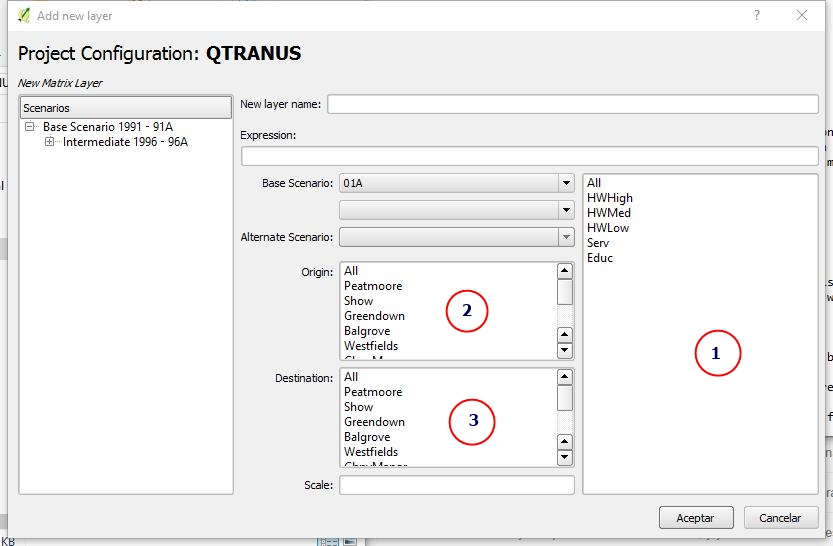
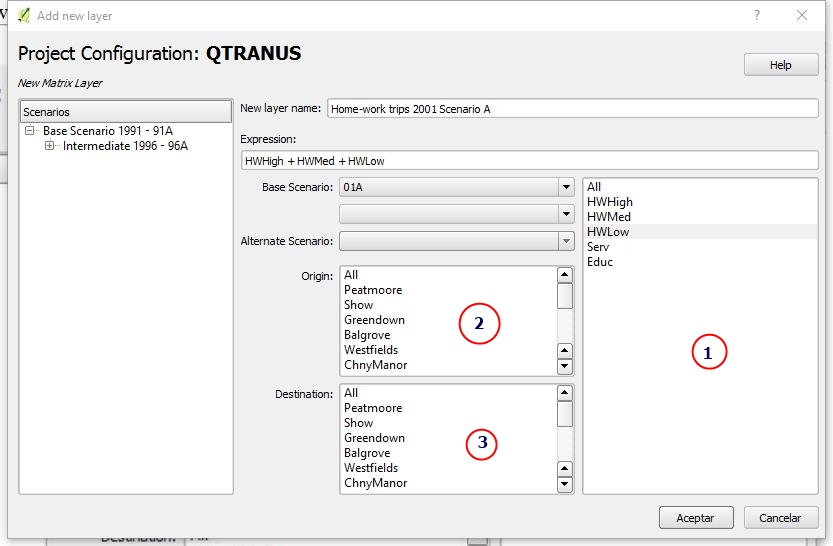
User help updated
* User help updated, images and information updated.

diff --git a/userHelp/results.html b/userHelp/results.html
@@ -20,23 +20,26 @@
             <article class="article">
                 <h1>Results</h1>
                 <p>This part of the program is used to produce maps with the results of a TRANUS model. In this manual we are using the model of Swindon as an example. This model and all related data may be downloaded from:</p>
-                <a href="http://www.tranus.com/tranus-english/download-install">TRANUS site</a>
-                <p>To begin the process, a window is presented with boxes to fill:</p>
+				<a href="http://www.tranus.com/tranus-english/download-install">TRANUS site</a>
+				<p>To begin the process, a window is presented with boxes to fill:</p>
                 <figure>
                     <img src="img/results1.jpg">
                     <figcaption>Fig. 1: QTranus main window.</figcaption>
                 </figure>
                 <h3>Layers group name</h3>
-                <p>Give a name to put all the layers that you will produce into a group - Obligatory field</p>
-                <h3>TRANUS workspace</h3>
+				<p>Give a name to put all the layers that you will produce into a group - Obligatory field</p>
+				<h3>TRANUS workspace</h3>
                 <p>A TRANUS project resides in a unique folder in your computer. As soon as you specify a valid TRANUS workspace, you will notice that the Scenario Tree appears with valid information in the left panel. This is because QTRANUS looks in the folder you specified for a file called TRANUS.CTL. This is the file where the scenario tree is specified, a fundamental structure in TRANUS modeling. You may click on the little + to expand the scenario tree.</p>
-                <h3>Zones shapefile</h3>
-                <p>Specify the shape file where the polygons of the zones are contained. You may use the button provided to explore your pc.  As soon as you put a valid shape file name, a map with the polygons should appear as a background. The shapefile must contain one polygon for each zone in the model. Make sure that this is so.</p>
-                <p>Next, Select zones shape Id with a pull-down list of all the fields in the zones shapefile that you specified. Select the one that contains the Zone Id numbers. This must be integer values exactly matching the Zone Id identifiers in the model.</p>
-                <p>If no Zone shapefile is specified, the program will not be able to produce maps based on zonal information.</p>
-                <p>The other two boxes, Network Shapefile and Centroid Shapefile correspond to parts of the program that are still under development.</p>
-                <p>At the bottom there are three buttons called ‘Zones’, ‘Network’ and ‘Matrix’. They are all inactive. As soon as a valid Zones Shapefile is specified, the Zones and the Matrix buttons become active. The Network option is not available in this version. Press the Zones button, and another window appears to generate QGIS layers with thematic zone-based results, as described below. Press the Matrix button and another window will appear to generate flow-maps from trip matrices.</p>
-                <p>Once one or more map or matrix layers have been defined, you may save the QGIS project in the usual way, doing File-Save or File-Save As and giving it a name. This means that the next time you open the QGIS project, all your maps will be there exactly as you left them. You may then add more layers to the project using the QTRANUS plugin again and again.</p>
+				<h3>Zones shapefile</h3>
+				<p>Specify the shape file where the polygons of the zones are contained. You may use the button provided to explore your pc.  As soon as you put a valid shape file name, a map with the polygons should appear as a background. The shapefile must contain one polygon for each zone in the model. Make sure that this is so.</p>
+				<p> Next, Select zones shape Id with a pull-down list of all the fields in the zones shapefile that you specified. Select the one that contains the Zone Id numbers. This must be integer values exactly matching the Zone Id identifiers in the model.</p>
+				<p>If no Zone shapefile is specified, the program will not be able to produce maps based on zonal information.</p>
+				<h3>Network Shapefile</h3>
+				<p>This is under development.</p>
+				<h3>Centroid Shapefile</h3>
+				<p>Optional. If you specify a shapefile with zone centroids, then in the Matrix option it will be used to generate the flow maps (see the corresponding section). If you do not specify a centroids shapefile, then in the Matrix option the centroid locations will be calculated automatically from the polygon shapefile. Why do we have this option? Because sometimes the geographical centroids do not represent reality adequate.</p>
+				<p>At the bottom there are three buttons called ‘Zones’, ‘Network’ and ‘Matrix’. They are all inactive. As soon as a valid Zones Shapefile is specified, the Zones and the Matrix buttons become active. The Network option is not available in this version. Press the Zones button, and another window appears to generate QGIS layers with thematic zone-based results, as described below. Press the Matrix button and another window will appear to generate flow-maps from trip matrices.</p>
+				<p>Once one or more map or matrix layers have been defined, you may save the QGIS project in the usual way, doing File-Save or File-Save As and giving it a name. This means that the next time you open the QGIS project, all your maps will be there exactly as you left them. You may then add more layers to the project using the QTRANUS plugin again and again.</p>
                 <hr>
                 <a href=zones.html>Zone-based maps</a>
             </article>

diff --git a/userHelp/matrix.html b/userHelp/matrix.html
@@ -27,13 +27,13 @@
                     <img src="img/matrix1.jpg">
                     <figcaption>Fig. 3: Matrix layer window.</figcaption>
                 </figure>
-				<p>In (1) the list of all transport categories that were found in the data is displayd. In (2) and (3) the list of zones that was found in your data is listed</p>
+				<p>In (1) the list of all transport categories that were found in the data is displayd. In (2) and (3) the list of zones that was found in your data is listed.</p>
                 <h3>New layer name</h3>
-				<p>Give a name to the layer you are generating, an obligatory field. The program will use this name to generate an auxiliary file in the Project Folder, so that you cannot use special characters that Windows will not accept as part of file names, such as ? * etc. </p>
+				<p>Give a name to the layer you are generating, an obligatory field. The program will use this name to generate an auxiliary file in the Project Folder, so that you cannot use special characters that Windows will not accept as part of file names, such as ? * etc.</p>
 				<h3>Expression</h3>
 				<p>The values to be mapped are defined in this expression. The expression may contain one or several categories added together. Double click the ones you want in the list to put them into the Expression box. Click on 'All' to define the sum of all categories.</p>
 				<h3>Origin/Destination</h3>
-				<p> In the list of origins select one, several or 'All', and similarly in the list of destinations. This will generate a flow map of one-to-many, many-to-many, all-to-all, etc., zones</p>
+				<p>In the list of origins select one, several or 'All', and similarly in the list of destinations. This will generate a flow map of one-to-many, many-to-many, all-to-all, etc., zones.</p>
 				<h3>Scenarios </h3>
 				<p>It is also possible to generate a map that relates trips that result from Expression for two different scenarios. For example, you may want a flow map with the growth of home-to-work trips from 91A to 16T. Double-click all home-to-work categories to put them in the Expression box, then select 16T from the Base Scenario pull-down, then select an operand, that may be - or /, and then choose the 91A scenario for the Alternative Scenario pull-down box. The program will subtract 16T - 91A, and this value will be used to generate the flow map.</p>
 				<h3>Some examples:</h3>
